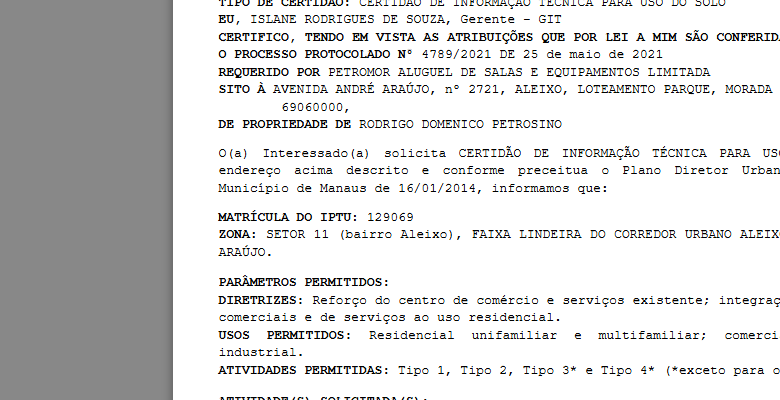
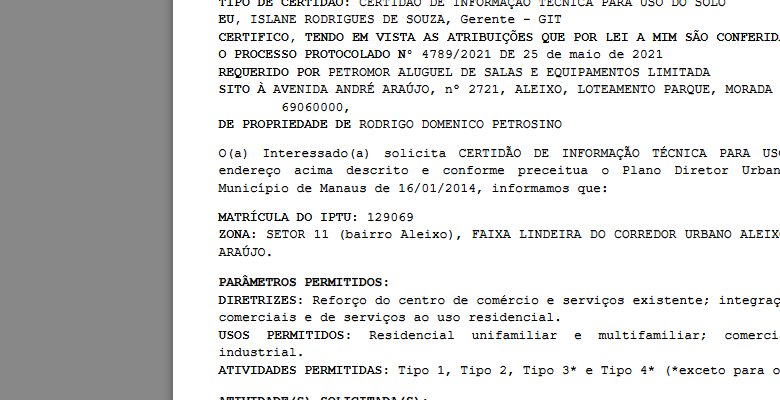
auto-sync: 2026-04-27 10:48

diff --git a/dados/certidao-template.html b/dados/certidao-template.html
@@ -88,12 +88,16 @@
     font-size: 13px;
     line-height: 1.35;
     text-align: justify;
-    -webkit-text-stroke: 0.08px #000;
+    -webkit-text-stroke: 0.22px #000;
   }
 
   .body p {
     margin-bottom: 11px;
     margin-top: 0;
+  }
+
+  .body b, .body strong {
+    -webkit-text-stroke: 0px;
   }
 
   .section-title {

diff --git a/dados/build-html.py b/dados/build-html.py
@@ -93,12 +93,16 @@ html = """<!DOCTYPE html>
     font-size: 13px;
     line-height: 1.35;
     text-align: justify;
-    -webkit-text-stroke: 0.08px #000;
+    -webkit-text-stroke: 0.22px #000;
   }
 
   .body p {
     margin-bottom: 11px;
     margin-top: 0;
+  }
+
+  .body b, .body strong {
+    -webkit-text-stroke: 0px;
   }
 
   .section-title {
